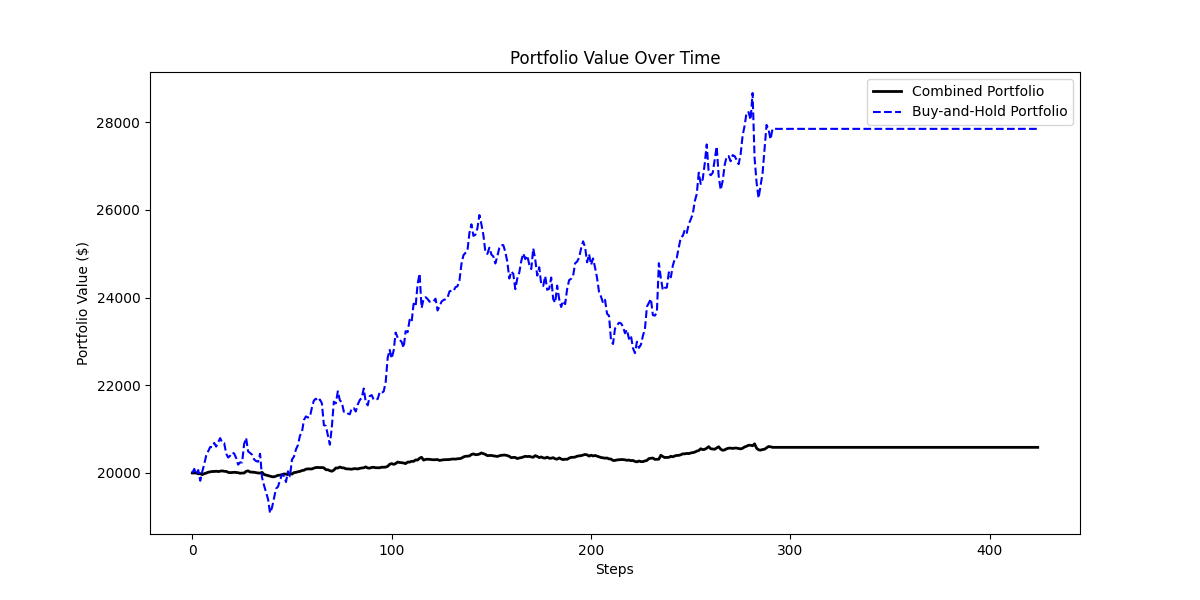
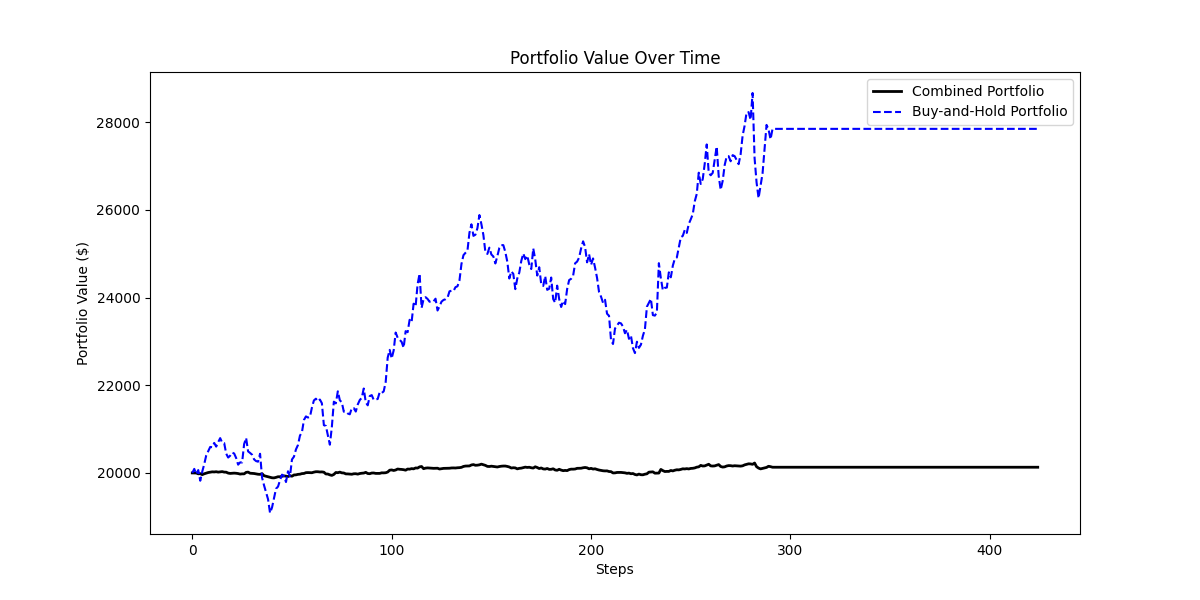
UPdate

Changed region(s): [[0.185, 0.72, 0.8633, 0.81]]

diff --git a/src/main.py b/src/main.py
@@ -173,6 +173,18 @@ class TradingEnv:
         if DEBUG_STEPS:
             print(f"Step {self.current_step}: Adjusted Stop-Loss: {self.dynamic_stop_loss:.2%}, Adjusted Take-Profit: {self.dynamic_take_profit:.2%}")
 
+        # Take Profit Logic
+        if self.shares > 0:
+            take_profit_price = self.trailing_stop_price / (1 - TAKE_PROFIT)
+            if current_price >= take_profit_price:
+                if DEBUG_STEPS:
+                    print(f"Step {self.current_step}: Take Profit Triggered! Current Price: {current_price:.2f}, Take Profit Price: {take_profit_price:.2f}")
+                self.cash += self.shares * current_price * (1 - self.transaction_cost)
+                self.trade_log.append((self.current_step, "SELL", current_price, self.shares))
+                self.shares = 0
+                self.trailing_stop_price = None
+                self.holding_period = 0  # Reset holding period after selling
+
         # Buy logic: Buy if price is increasing and no shares are held
         if self.shares == 0 and current_price > previous_price:
             max_shares = int((self.cash * POSITION_SIZE) / current_price)
